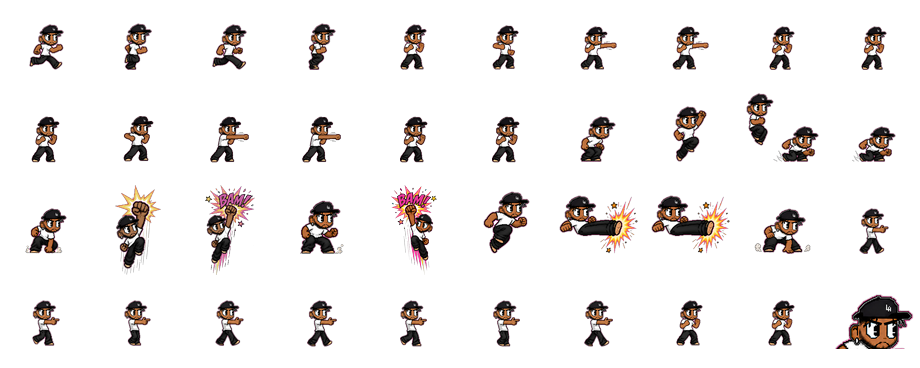
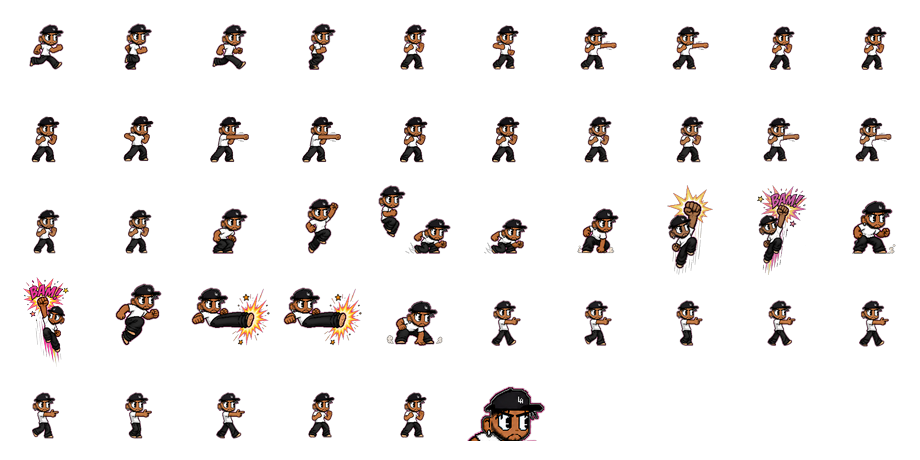
Alternate jab hands: right jab, left jab 2, right cross
COMBO's 'jab 2' step now uses a dedicated left-hand sheet
(hero.jabL.*, art/BamBamJabL/) instead of reusing the right-hand jab
frames, giving the first three combo hits a natural right/left/right
alternation (jab=right, jab 2=left, cross=right via its existing
hero.punch fallback).

Only 3 reference frames were provided for the left hand (idle/extend/
recover, no dedicated wind-up) — per the user's own suggested fudge,
the idle frame doubles as its own wind-up in the pack_frames() call,
same duplication convention already used for the 4-frame right-hand
sets.

diff --git a/src/game.html b/src/game.html
@@ -850,7 +850,9 @@ const COMBO=[
   {name:'jab',      su:4, act:4, rec:8,  dmg:5,  push:0,   stun:20, y:0,
    sheet:'jab',      wind:[0,1],   hit:[2,3], back:[4,5],   step:1.4, rum:[60,.30,.55]},
   {name:'jab 2',    su:3, act:4, rec:8,  dmg:5,  push:0,   stun:20, y:0,
-   sheet:'jab',      wind:[1],     hit:[2,3], back:[4,5],   step:1.8, rum:[85,.42,.72]},
+   // left hand — sheet:'jabL' gives the combo a right(jab)/left(jab 2)/right(cross,
+   // falls back to hero.punch which is right-handed) alternating rhythm
+   sheet:'jabL',     wind:[1],     hit:[2,3], back:[4,5],   step:1.8, rum:[85,.42,.72]},
   {name:'cross',    su:5, act:5, rec:11, dmg:9,  push:0,   stun:26, y:0,
    sheet:'cross',    wind:[0,1],   hit:[2,3], back:[4,5],   step:2.6, rum:[140,.68,.92]},
   {name:'SWING', su:8, act:6, rec:18, dmg:15, push:9.5, stun:46, y:3.4, launch:true,

diff --git a/src/pack.py b/src/pack.py
@@ -83,7 +83,8 @@ def pack_one(key, folder, fname, im):
 
 pack_frames("hero.walk", "BamBamRun",      ["frame0.png","frame1.png","frame2.png","frame3.png"])
 pack_frames("hero.punch","BamBamPunch",    ["frame0.png","frame1.png","frame2.png","frame2.png","frame3.png","frame3.png"])
-pack_frames("hero.jab",  "BamBamJab",      ["frame0.png","frame1.png","frame2.png","frame2.png","frame3.png","frame3.png"])  # COMBO's jab/jab-2 steps (sheet:'jab') — dedicated frames instead of the hero.punch fallback
+pack_frames("hero.jab",  "BamBamJab",      ["frame0.png","frame1.png","frame2.png","frame2.png","frame3.png","frame3.png"])  # COMBO's jab step (sheet:'jab') — right hand
+pack_frames("hero.jabL", "BamBamJabL",     ["frame0.png","frame0.png","frame1.png","frame1.png","frame2.png","frame2.png"])  # COMBO's jab-2 step (sheet:'jabL') — left hand; only 3 source frames (idle/extend/recover), no dedicated wind-up, so idle doubles as its own wind-up
 pack_frames("hero.jump", "BamBamJump",     ["frame0.png","frame1.png","frame2.png","frame3.png"])
 # uppercut: crouch/landing are clean (just the character) so foot-anchor them a
 # touch bigger than the normal 46px hero; the two burst frames fill the cell.